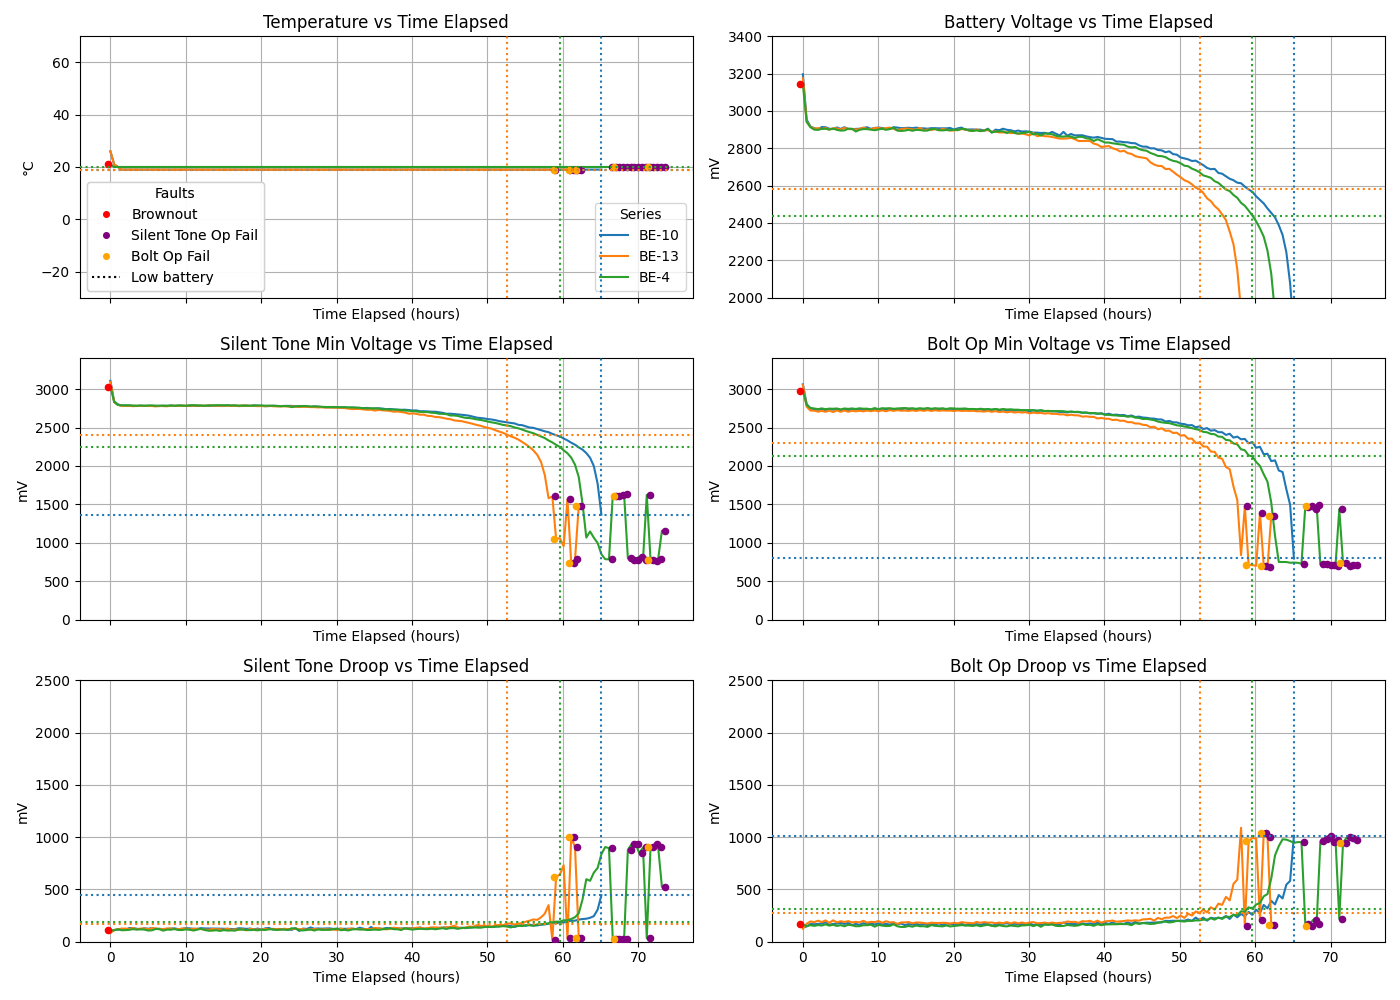
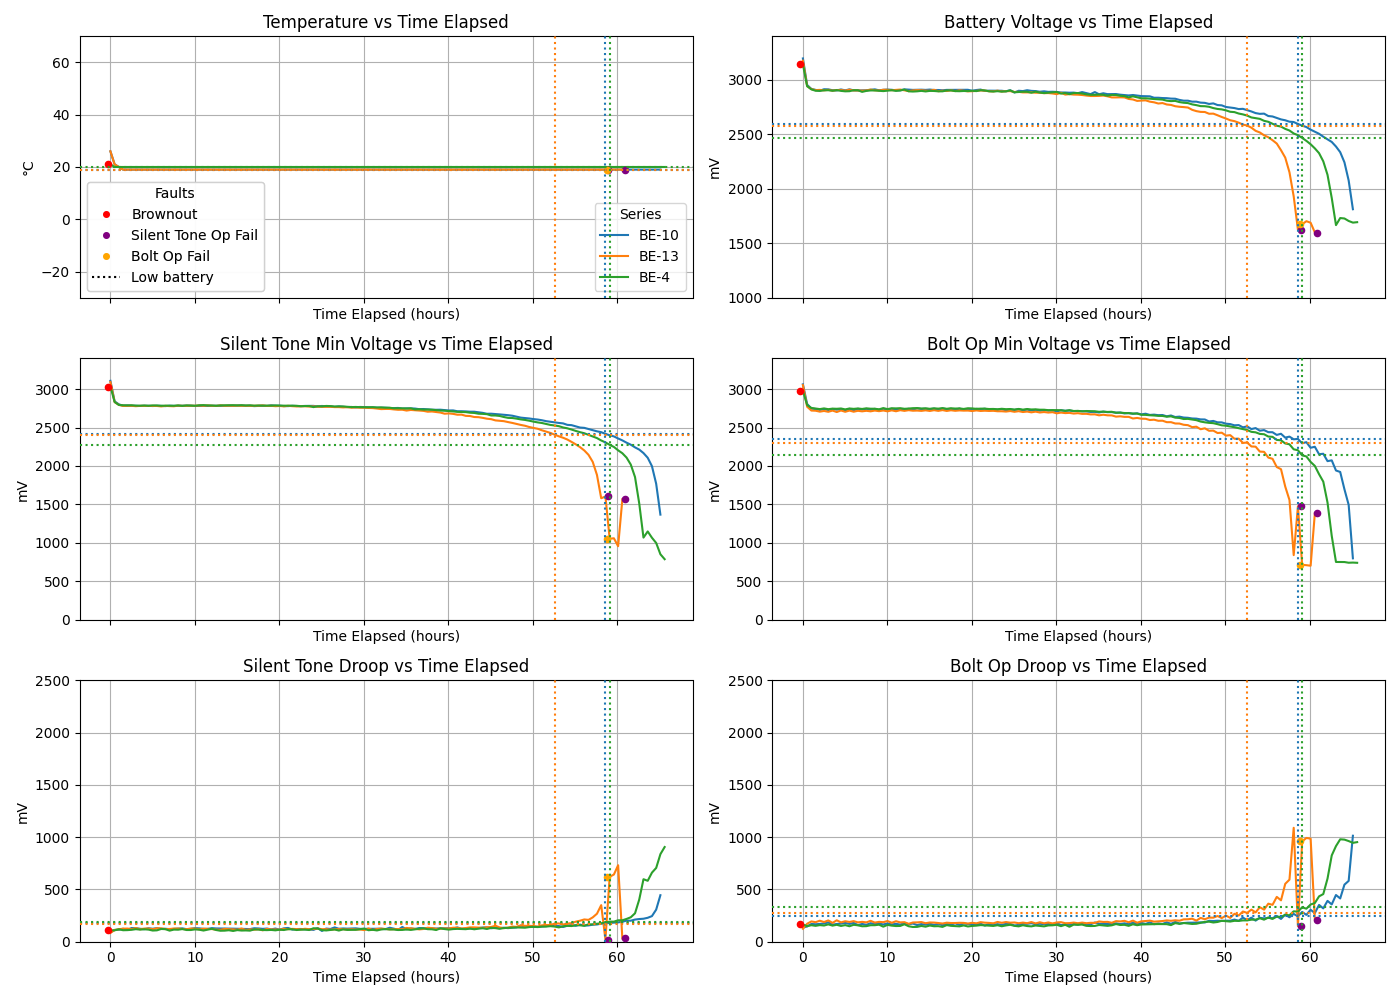
energizer 20c

diff --git a/plot_folder.py b/plot_folder.py
@@ -151,7 +151,7 @@ for csv_path in csv_files:
         if col == "temp":
             ax.set_ylim(-30, 70)
         elif col == "batt_mV":
-            ax.set_ylim(1800, 3400)
+            ax.set_ylim(1000, 3400)
         elif col in ("soundDroopMag_mV", "boltDroopMag_mV"):
             ax.set_ylim(0, 2500)
         else:
